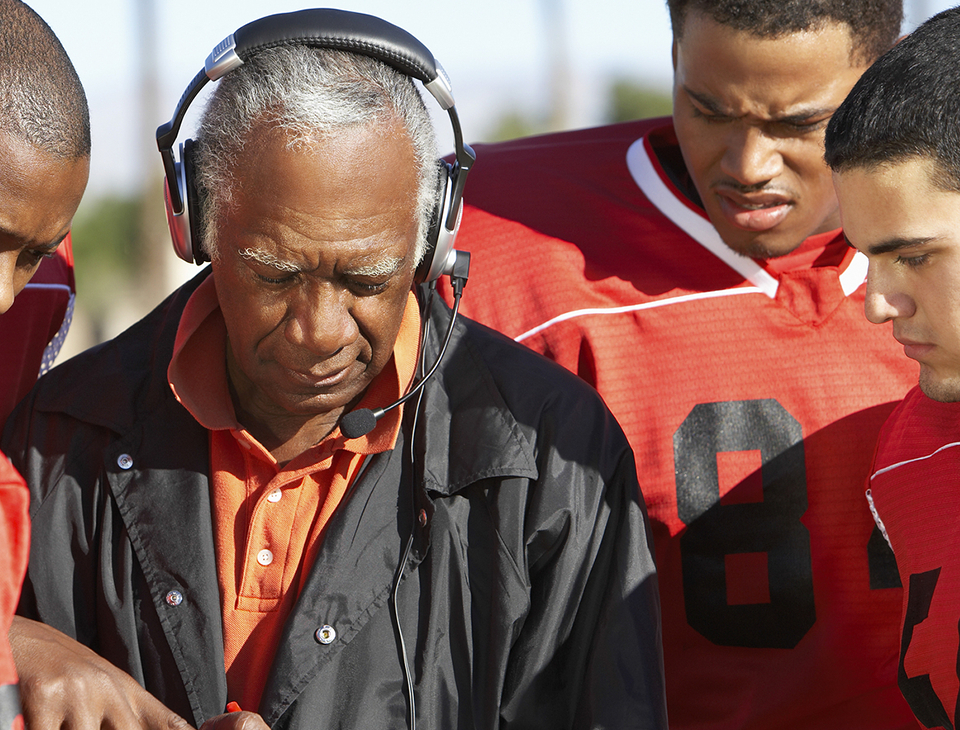
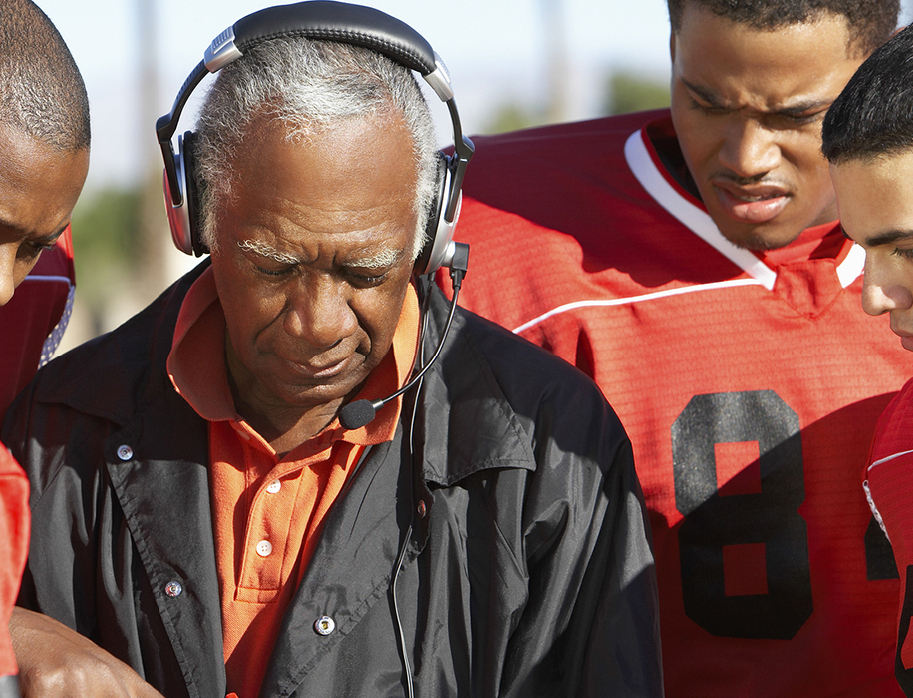
image motivation

diff --git a/css/last_slide/motivation.css b/css/last_slide/motivation.css
@@ -16,7 +16,7 @@
 
 @media (min-width: 961px) {
   .motivation img {
-    height: 100%;
+    height: auto;
     background-size: cover;
   }
   .motivation {
@@ -37,7 +37,7 @@
   .motivation .number {
     font-size: 1.65rem;
     margin-top: 3.2rem;
-    margin-bottom: 1.2rem;
+    margin-bottom: 0.3rem;
   }
   .motivation .context h2 {
     margin-bottom: 5.38rem;
@@ -46,11 +46,11 @@
   }
   .motivation .context {
     padding-left: 8rem;
-    padding-top: 9.3rem;
+    margin-top: 9.3rem;
     box-sizing: border-box;
   }
   .motivation .context p {
-    font-size: 1.5rem;
+    font-size: 1.2vw;
     font-weight: 400;
     line-height: 1.25em;
     letter-spacing: 0.05em;
@@ -60,7 +60,13 @@
   }
   .motivation:nth-child(even) .img {
     order: 1;
+    margin-top: -5px;
+    margin-bottom: -5px;
   }
+  .motivation:nth-last-child(1) .img {
+    margin-bottom: -5px;
+  }
+
   .motivation:nth-child(even) h2 {
     text-align: end;
     margin-right: 9vw;
@@ -71,11 +77,11 @@
   .motivation:nth-last-child(2) .context p {
     margin-left: auto;
     max-width: 29.7em;
-    margin-right: 5%;
+    padding-right: 4vw;
   }
   .motivation:nth-last-child(1) .context p {
     max-width: 31.2rem;
-    padding-bottom: 9.5rem;
+    margin-bottom: 9.7vw;
   }
 }
 

diff --git a/css/common.css b/css/common.css
@@ -86,7 +86,7 @@ footer, header {
   position: relative;
 }
 .number::after {
-  width: 80%;
+  width: 70%;
   content: '';
   height: 0.2em;
   left: 10%;
@@ -102,15 +102,20 @@ footer, header {
   h3 {
     font-size: 2.25rem;
   }
- 	h2 {
-    font-size: 5rem;
+ 	.player h2,
+  .athlets h2,
+  footer h2 {
+     font-size: 5rem;
 	}
+  .motivation h2 {
+    font-size: 4.2vw;
+	}
+
   .sportsman {
     padding-bottom: 1.9vw;
     padding-top: 2em;
   }
   p {
-    /*max-width: 740px;*/
     max-width: 40em;
   }
   .sportsman p {

diff --git a/css/last_slide/footer.css b/css/last_slide/footer.css
@@ -29,9 +29,9 @@ footer h4 {
     display: flex;
   }
   footer .context {
-    margin-left: -1em;
+    margin-left: -2em;
     padding-left: 4em;
-    margin-top: 2.2rem;
+    margin-top: 1.2rem;
   }
   footer h2 {
     font-weight: 700;

diff --git a/css/first_slide/player.css b/css/first_slide/player.css
@@ -41,7 +41,7 @@
   }
   .player .sportsman:nth-last-child(3) p {
     padding-right: 24%;
-    margin-bottom: 0.6em;
+    margin-bottom: 2em;
   }
   .player .sportsman:nth-last-child(2) h3 {
     margin-right: 25em;

diff --git a/css/first_slide/header.css b/css/first_slide/header.css
@@ -90,7 +90,6 @@ header .container {
     font-size: 8.75vw;
     line-height: 9.8vw;
     margin-top: 39.5vw;
-    max-width: 88vw;
     letter-spacing: 0.04em;
   }
   .title_left {
